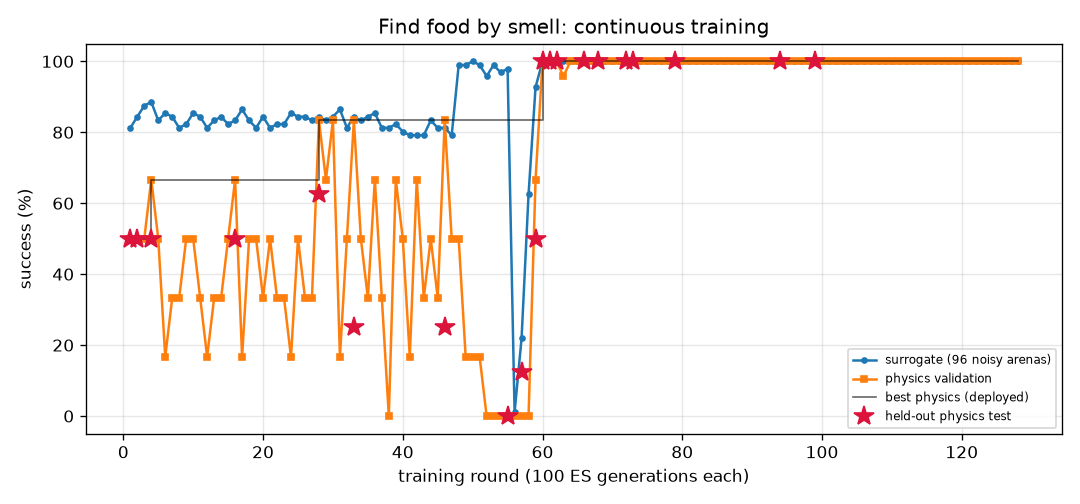
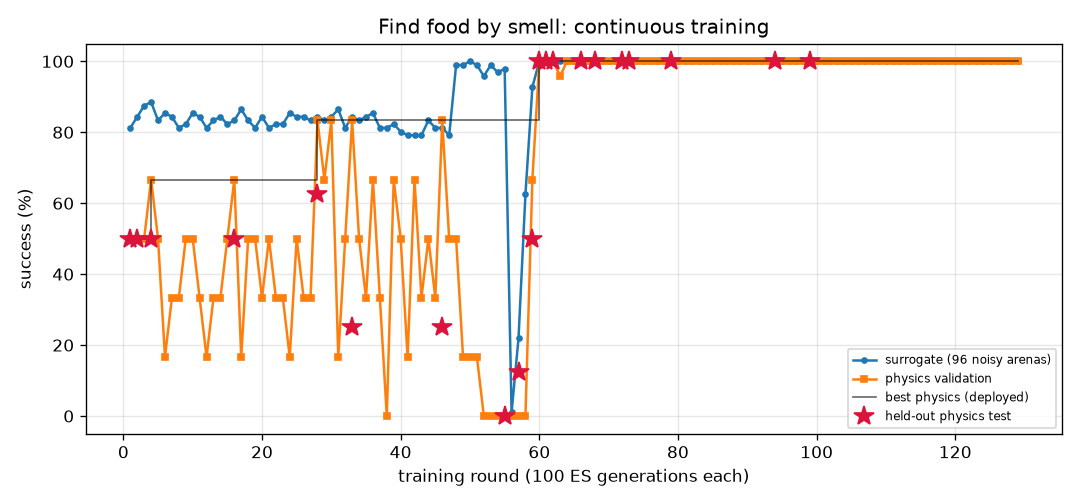
FlyLab: continuous training progress
- walk_forward: optimal, physics val 100% of 24, round 155
- turn: optimal, physics val 100% of 24, round 595
- goto: optimal, physics val 100% of 24, round 141
- odor_seek: optimal, physics val 100% of 24, round 129
- odor_avoid: optimal, physics val 100% of 24, round 576
- light_seek: optimal, physics val 100% of 24, round 325
- light_avoid: optimal, physics val 100% of 24, round 310

diff --git a/projects/09_flylab/training/odor_seek/REPORT.md b/projects/09_flylab/training/odor_seek/REPORT.md
@@ -1,14 +1,14 @@
 # Find food by smell (`odor_seek`) — training report
 
-*Auto-generated by `train_brains.py`, last updated 2026-10-20T22:59:46.*
+*Auto-generated by `train_brains.py`, last updated 2026-10-22T00:06:02.*
 
 ![curve](curve.png)
 
 | | |
 |---|---|
-| rounds | 128 |
-| ES generations | 12800 |
-| physics runs | 2438 |
+| rounds | 129 |
+| ES generations | 12900 |
+| physics runs | 2462 |
 | status | **optimal** |
 | best brain | round 99: physics validation **100%** on 24 arenas, surrogate 100% |
 | held-out physics test | **100%** on 32 unseen arenas (95% CI 89%-100%) (errors: [0.16, 0.18, 0.15, 0.21, 0.19, 0.16, 0.21, 0.2, 0.2, 0.18, 0.15, 0.18, 0.15, 0.2, 0.18, 0.19, 0.13, 0.16, 0.2, 0.2, 0.21, 0.15, 0.2, 0.17, 0.19, 0.25, 0.15, 0.19, 0.26, 0.16, 0.2, 0.26]) |
@@ -17,7 +17,6 @@ Physics error per arena: mm from target at the end (< 1.5 and standing still = s
 
 | round | level | gens | sigma | surrogate | physics val | val errors | test | note |
 |---:|---:|---:|---:|---:|---:|---|---:|---|
-| 89 | 3 | 8900 | 0.024 | 100% | 100% | [0.26, 0.22, 0.23, 0.28, 0.24, 0.23, 0.27, 0.24, 0.21, 0.28, 0.21, 0.22, 0.25, 0.19, 0.26, 0.24, 0.28, 0.25, 0.25, 0.24, 0.22, 0.26, 0.18, 0.26] |  |  |
 | 90 | 3 | 9000 | 0.024 | 100% | 100% | [0.17, 0.22, 0.18, 0.13, 0.17, 0.22, 0.26, 0.15, 0.22, 0.15, 0.25, 0.21, 0.19, 0.26, 0.16, 0.23, 0.2, 0.17, 0.2, 0.18, 0.23, 0.12, 0.17, 0.15] |  |  |
 | 91 | 3 | 9100 | 0.024 | 100% | 100% | [0.29, 0.24, 0.3, 0.15, 0.24, 0.21, 0.17, 0.25, 0.27, 0.26, 0.24, 0.21, 0.21, 0.26, 0.22, 0.24, 0.21, 0.23, 0.26, 0.32, 0.2, 0.24, 0.31, 0.22] |  | restart from best |
 | 92 | 3 | 9200 | 0.024 | 100% | 100% | [0.25, 0.18, 0.19, 0.2, 0.27, 0.17, 0.15, 0.19, 0.15, 0.17, 0.24, 0.21, 0.24, 0.2, 0.17, 0.19, 0.16, 0.17, 0.17, 0.19, 0.21, 0.17, 0.19, 0.23] |  |  |
@@ -57,3 +56,4 @@ Physics error per arena: mm from target at the end (< 1.5 and standing still = s
 | 126 | 3 | 12600 | 0.024 | 100% | 100% | [0.17, 0.28, 0.14, 0.15, 0.14, 0.19, 0.16, 0.17, 0.23, 0.18, 0.22, 0.29, 0.19, 0.25, 0.18, 0.19, 0.14, 0.21, 0.2, 0.21, 0.22, 0.17, 0.19, 0.15] |  |  |
 | 127 | 3 | 12700 | 0.024 | 100% | 100% | [0.15, 0.25, 0.17, 0.26, 0.2, 0.2, 0.19, 0.19, 0.15, 0.2, 0.19, 0.16, 0.19, 0.2, 0.21, 0.13, 0.08, 0.14, 0.25, 0.24, 0.27, 0.13, 0.09, 0.21] |  | restart from best |
 | 128 | 3 | 12800 | 0.024 | 100% | 100% | [0.21, 0.27, 0.24, 0.27, 0.2, 0.22, 0.24, 0.25, 0.22, 0.24, 0.19, 0.25, 0.27, 0.24, 0.18, 0.2, 0.22, 0.19, 0.25, 0.22, 0.3, 0.24, 0.24, 0.25] |  |  |
+| 129 | 3 | 12900 | 0.024 | 100% | 100% | [0.11, 0.17, 0.09, 0.11, 0.23, 0.15, 0.23, 0.12, 0.13, 0.31, 0.27, 0.11, 0.26, 0.29, 0.31, 0.09, 0.16, 0.24, 0.14, 0.17, 0.19, 0.15, 0.16, 0.08] |  |  |

diff --git a/projects/09_flylab/training/walk_forward/REPORT.md b/projects/09_flylab/training/walk_forward/REPORT.md
@@ -1,14 +1,14 @@
 # Walk forward (`walk_forward`) — training report
 
-*Auto-generated by `train_brains.py`, last updated 2026-10-21T23:21:47.*
+*Auto-generated by `train_brains.py`, last updated 2026-10-22T00:10:59.*
 
 ![curve](curve.png)
 
 | | |
 |---|---|
-| rounds | 154 |
-| ES generations | 15400 |
-| physics runs | 3710 |
+| rounds | 155 |
+| ES generations | 15500 |
+| physics runs | 3734 |
 | status | **optimal** |
 | best brain | round 116: physics validation **100%** on 24 arenas, surrogate 100% |
 | held-out physics test | **100%** on 32 unseen arenas (95% CI 89%-100%) (errors: [0.13, 0.16, 0.19, 0.16, 0.15, 0.2, 0.17, 0.18, 0.17, 0.19, 0.2, 0.14, 0.17, 0.19, 0.2, 0.2, 0.13, 0.19, 0.16, 0.2, 0.2, 0.16, 0.17, 0.2, 0.13, 0.15, 0.18, 0.14, 0.16, 0.15, 0.19, 0.12]) |
@@ -17,7 +17,6 @@ Physics error per arena: mm from target at the end (< 1.5 and standing still = s
 
 | round | level | gens | sigma | surrogate | physics val | val errors | test | note |
 |---:|---:|---:|---:|---:|---:|---|---:|---|
-| 115 | 3 | 11500 | 0.024 | 100% | 100% | [0.09, 0.12, 0.06, 0.08, 0.13, 0.06, 0.13, 0.08, 0.13, 0.14, 0.04, 0.14, 0.1, 0.08, 0.12, 0.11, 0.1, 0.12, 0.07, 0.16, 0.1, 0.14, 0.16, 0.04] |  |  |
 | 116 | 3 | 11600 | 0.024 | 100% | 100% | [0.2, 0.2, 0.15, 0.2, 0.2, 0.13, 0.2, 0.16, 0.2, 0.19, 0.13, 0.17, 0.17, 0.14, 0.2, 0.18, 0.19, 0.2, 0.17, 0.2, 0.18, 0.19, 0.17, 0.17] | 100% | new best |
 | 117 | 3 | 11700 | 0.024 | 100% | 83% | [0.1, 0.14, 0.03, 0.09, 0.14, 0.79, 0.14, 0.04, 0.14, 0.13, 0.16, 0.06, 0.38, 2.39, 0.13, 0.1, 0.05, 0.14, 0.03, 0.13, 0.07, 0.08, 0.08, 0.08] |  |  |
 | 118 | 3 | 11800 | 0.024 | 100% | 100% | [0.21, 0.17, 0.12, 0.15, 0.22, 0.18, 0.16, 0.19, 0.17, 0.19, 0.13, 0.21, 0.19, 0.18, 0.22, 0.21, 0.21, 0.21, 0.2, 0.22, 0.2, 0.18, 0.22, 0.18] |  |  |
@@ -57,3 +56,4 @@ Physics error per arena: mm from target at the end (< 1.5 and standing still = s
 | 152 | 3 | 15200 | 0.024 | 100% | 88% | [0.13, 0.16, 0.08, 0.13, 0.16, 0.33, 0.09, 0.1, 0.16, 0.15, 0.08, 0.25, 0.07, 0.08, 0.08, 0.22, 0.12, 0.1, 0.14, 0.14, 0.24, 0.15, 0.15, 0.06] |  | restart from best |
 | 153 | 3 | 15300 | 0.024 | 100% | 100% | [0.24, 0.22, 0.24, 0.23, 0.22, 0.24, 0.21, 0.24, 0.22, 0.2, 0.21, 0.18, 0.24, 0.24, 0.23, 0.2, 0.24, 0.22, 0.24, 0.23, 0.25, 0.2, 0.18, 0.24] |  |  |
 | 154 | 3 | 15400 | 0.024 | 99% | 88% | [0.16, 0.21, 0.65, 0.16, 0.2, 0.03, 0.21, 0.12, 0.21, 0.2, 0.53, 0.19, 0.12, 0.54, 0.18, 0.19, 0.15, 0.2, 0.13, 0.19, 0.13, 0.2, 0.18, 0.11] |  |  |
+| 155 | 3 | 15500 | 0.025 | 100% | 100% | [0.16, 0.19, 0.18, 0.16, 0.19, 0.18, 0.2, 0.18, 0.2, 0.25, 0.18, 0.26, 0.18, 0.18, 0.15, 0.26, 0.17, 0.17, 0.18, 0.15, 0.17, 0.25, 0.26, 0.18] |  |  |

diff --git a/projects/09_flylab/training/TRAINING.md b/projects/09_flylab/training/TRAINING.md
@@ -1,15 +1,15 @@
 # FlyLab brains — continuous training log
 
-*Auto-generated by `train_brains.py`, last updated 2026-10-21T23:21:47.*
+*Auto-generated by `train_brains.py`, last updated 2026-10-22T00:10:59.*
 
 Every skill has its own brain and its own training process: surrogate ES rounds, physics validation in MuJoCo, keep-the-best selection, and a held-out physics test that is never used for selection. See each skill's report for its full round-by-round history. Mastery is progressive: passing a level (100% physics validation, >=95% surrogate) doubles the validation and test arena sets; a brain is **optimal** once it holds up at level 3 (>=95% of 24 validation arenas) AND scores >=90% on the 32 held-out test arenas. Test columns show 95% Wilson confidence intervals.
 
 | skill | rounds | ES generations | physics runs | surrogate | physics val | **physics test** | status |
 |---|---:|---:|---:|---:|---:|---:|---|
-| [Walk forward](walk_forward/REPORT.md) | 154 | 15400 | 3710 | 100% | 100% of 24 | 100% of 32 (CI 89-100%) | **optimal** |
+| [Walk forward](walk_forward/REPORT.md) | 155 | 15500 | 3734 | 100% | 100% of 24 | 100% of 32 (CI 89-100%) | **optimal** |
 | [Turn in place](turn/REPORT.md) | 595 | 59500 | 14526 | 100% | 100% of 24 | 97% of 32 (CI 84-99%) | **optimal** |
 | [Go to a location](goto/REPORT.md) | 141 | 14100 | 3270 | 100% | 100% of 24 | 100% of 32 (CI 89-100%) | **optimal** |
-| [Find food by smell](odor_seek/REPORT.md) | 128 | 12800 | 2438 | 100% | 100% of 24 | 100% of 32 (CI 89-100%) | **optimal** |
+| [Find food by smell](odor_seek/REPORT.md) | 129 | 12900 | 2462 | 100% | 100% of 24 | 100% of 32 (CI 89-100%) | **optimal** |
 | [Escape a bad smell](odor_avoid/REPORT.md) | 576 | 57600 | 11130 | 97% | 100% of 24 | 97% of 32 (CI 84-99%) | **optimal** |
 | [Walk toward light](light_seek/REPORT.md) | 325 | 32500 | 4648 | 100% | 100% of 24 | 100% of 32 (CI 89-100%) | **optimal** |
 | [Hide from light](light_avoid/REPORT.md) | 310 | 31000 | 7712 | 100% | 100% of 24 | 100% of 32 (CI 89-100%) | **optimal** |
